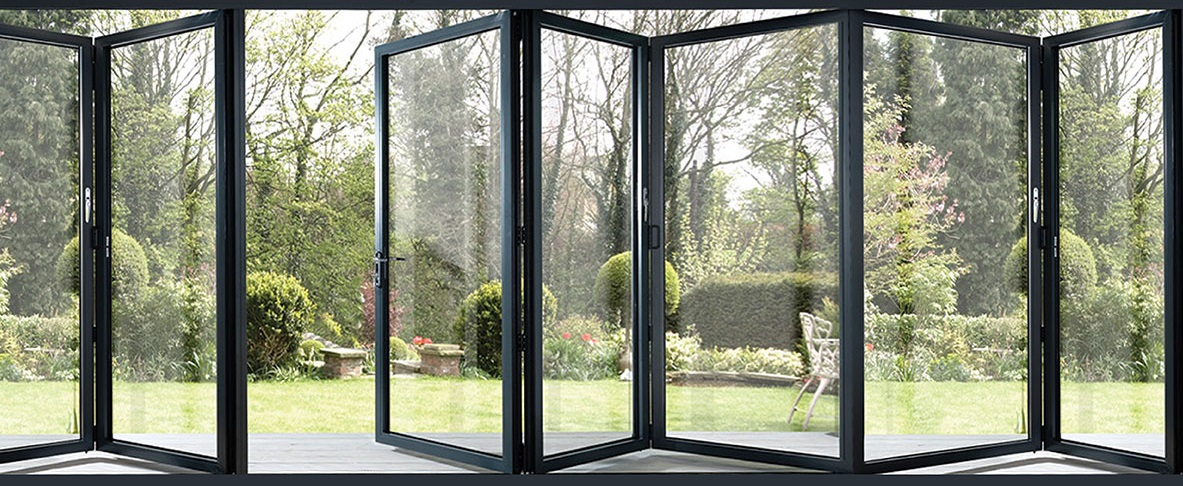
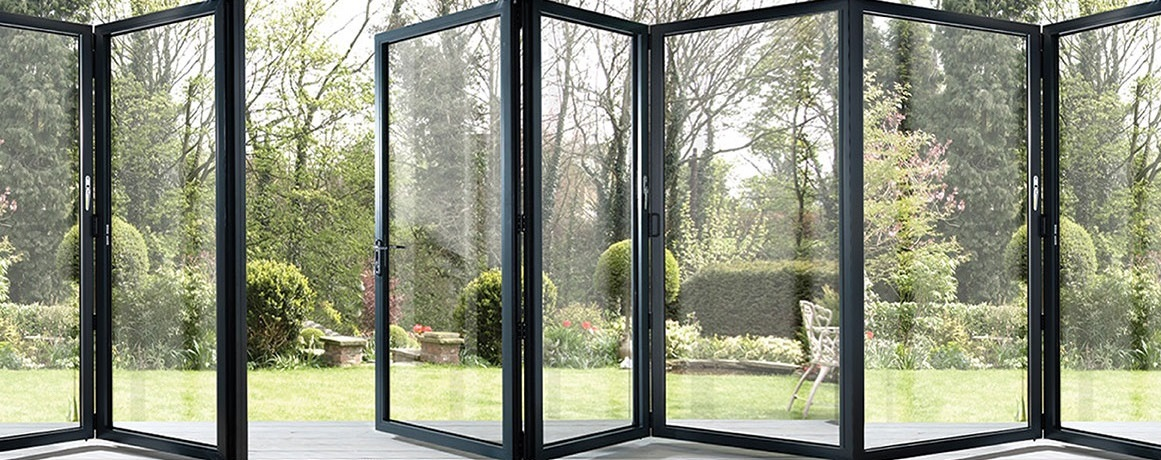
about page image added

diff --git a/about.html b/about.html
@@ -42,7 +42,11 @@
                 </div>
 
                 <div class="about-container">
+                  
                   <h1>About Halo Windows Swindon</h1>
+                  <div class="about-img">
+                      <img src="img/folding-windows.jpg" alt="bi-fold windows">
+                    </div>
                   <p>We are a local company with over 20 years industry experience and with our Certass registered fitters we are fully insured to guarantee all work we undertake to give you complete peace of mind.</p>
 
                     <p>Why not give us a call or send us an email for a FREE no obligation quote today.</p>

diff --git a/css/about.css b/css/about.css
@@ -129,6 +129,14 @@
   font-size: 0.9em;
 }
 
+.about-img {
+  width: 90%;
+  margin: 0 auto;
+}
+.about-img img {
+  width: 100%;
+}
+
 /* ======================================  FOOTER  ==== */
 
 footer {
